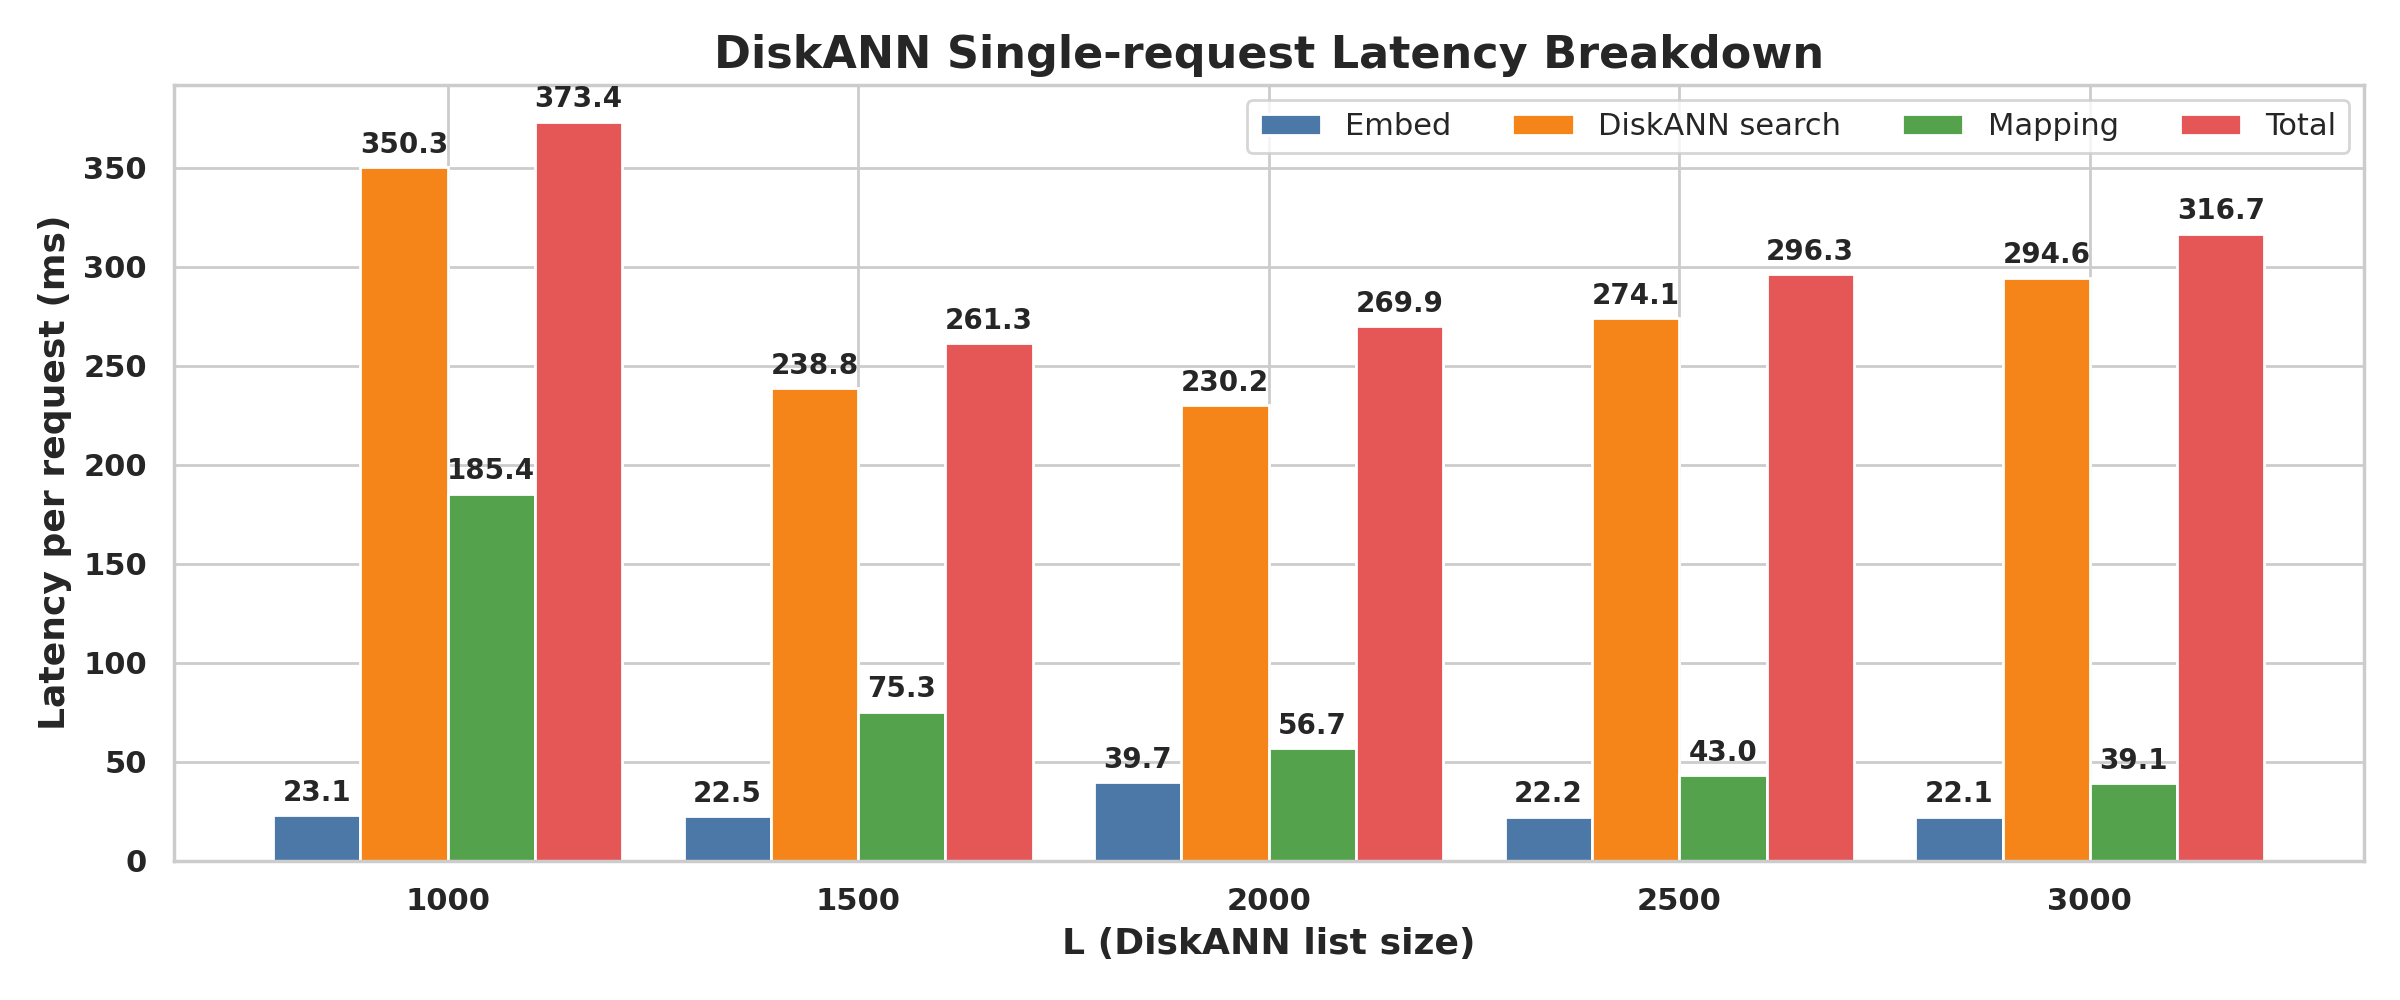
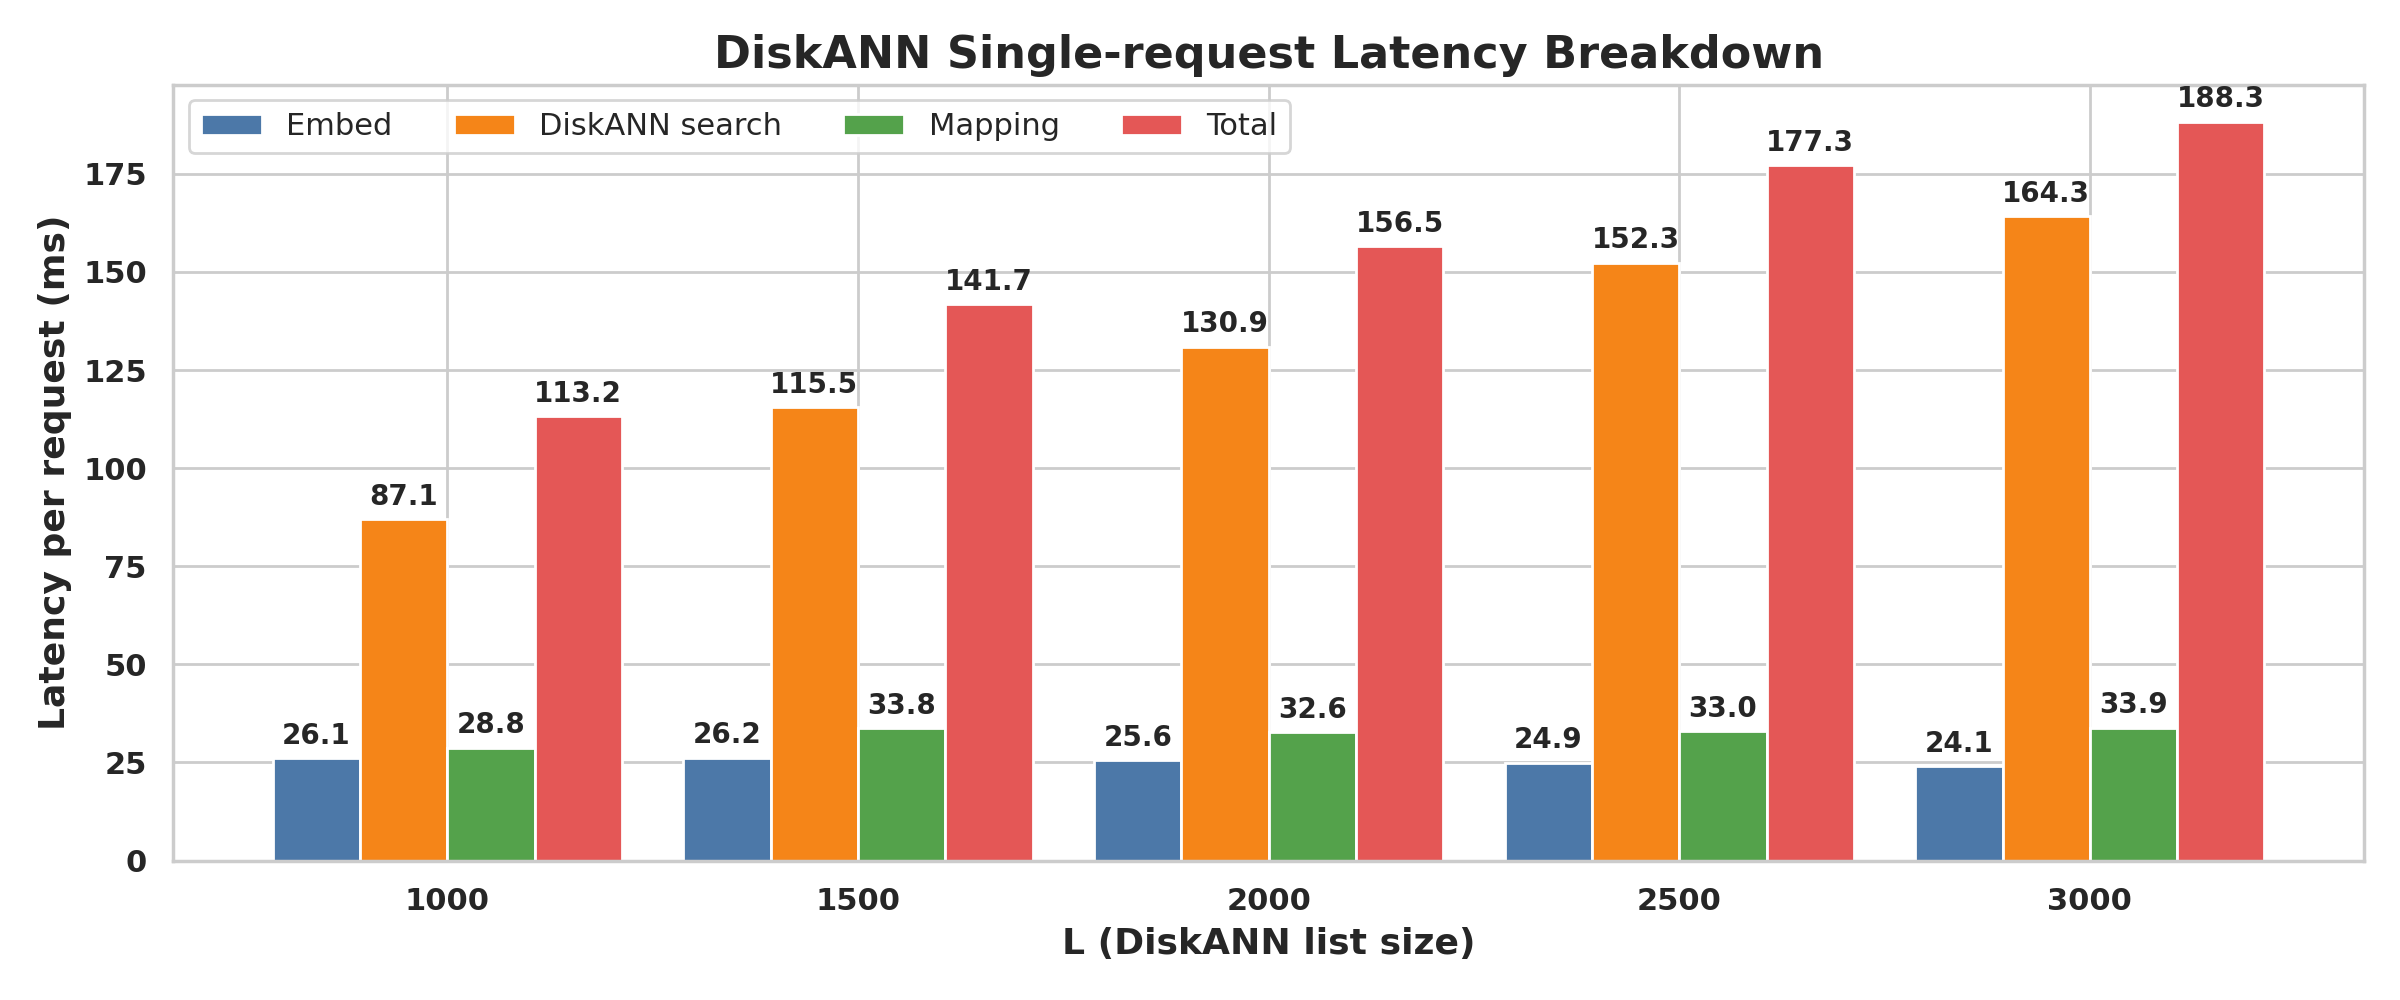
more plots updated

diff --git a/scripts/plot_diskann_single_request_latency.py b/scripts/plot_diskann_single_request_latency.py
@@ -21,11 +21,11 @@ REPO_ROOT = os.path.abspath(os.path.join(os.path.dirname(__file__), ".."))
 PLOT_PATH = os.path.join(REPO_ROOT, "docs", "plots", "diskann_single_request_latency_vs_L.png")
 
 SINGLE_REQUEST_LATENCY: List[dict] = [
-    {"L": 1000, "embed_ms": 23.05, "search_ms": 350.32, "map_ms": 185.37, "total_ms": 373.38},
-    {"L": 1500, "embed_ms": 22.50, "search_ms": 238.81, "map_ms": 75.26, "total_ms": 261.32},
-    {"L": 2000, "embed_ms": 39.74, "search_ms": 230.19, "map_ms": 56.74, "total_ms": 269.93},
-    {"L": 2500, "embed_ms": 22.21, "search_ms": 274.06, "map_ms": 43.02, "total_ms": 296.27},
-    {"L": 3000, "embed_ms": 22.15, "search_ms": 294.56, "map_ms": 39.07, "total_ms": 316.71},
+    {"L": 1000, "embed_ms": 26.10, "search_ms": 87.08, "map_ms": 28.77, "total_ms": 113.18},
+    {"L": 1500, "embed_ms": 26.24, "search_ms": 115.50, "map_ms": 33.79, "total_ms": 141.74},
+    {"L": 2000, "embed_ms": 25.60, "search_ms": 130.94, "map_ms": 32.63, "total_ms": 156.54},
+    {"L": 2500, "embed_ms": 24.92, "search_ms": 152.34, "map_ms": 32.95, "total_ms": 177.26},
+    {"L": 3000, "embed_ms": 24.05, "search_ms": 164.28, "map_ms": 33.85, "total_ms": 188.33},
 ]
 
 

diff --git a/scripts/plot_diskann_single_request_qps.py b/scripts/plot_diskann_single_request_qps.py
@@ -27,11 +27,11 @@ OUTPUT_PATH = os.path.join(REPO_ROOT, "docs", "plots", "diskann_single_request_q
 
 # Measurements captured via `REQUEST_MODE=single COUNT=20` sweep.
 SINGLE_REQUEST_RESULTS: List[dict] = [
-    {"L": 1000, "QPS": 2.50},
-    {"L": 1500, "QPS": 2.86},
-    {"L": 2000, "QPS": 2.86},
-    {"L": 2500, "QPS": 2.86},
-    {"L": 3000, "QPS": 2.50},
+    {"L": 1000, "QPS": 2.99},
+    {"L": 1500, "QPS": 3.39},
+    {"L": 2000, "QPS": 3.12},
+    {"L": 2500, "QPS": 3.12},
+    {"L": 3000, "QPS": 2.70},
 ]
 
 

diff --git a/docs/index.md b/docs/index.md
@@ -152,11 +152,6 @@ During search, **DS Serve** initially oversamples a pool of candidates, and then
   <img src="{{ 'plots/diskann_qps_vs_L.png' | relative_url }}" style="width: 48%; margin: 5px;" />
   <img src="{{ 'plots/diskann_index_only_qps_vs_L.png' | relative_url }}" style="width: 48%; margin: 5px;" />
 </p>
-<p align="left"><i>Figure 5 (single-request): DiskANN throughput when issuing individual queries sequentially (COUNT=20, no batching). Highlights the latency-limited regime seen by interactive clients.</i></p>
-<p align="center">
-  <img src="{{ 'plots/diskann_single_request_qps_vs_L.png' | relative_url }}" style="width: 90%; margin: 5px;" />
-</p>
-
 <p align="left"><i>Figure 6a: TriviaQA accuracy (Recall → F1 → EM). DiskANN outperforms IVFPQ across all metrics when displayed individually per task.</i></p>
 <p align="center">
   <img src="{{ 'accuracy_ivfpq_vs_diskann_triviaqa.png' | relative_url }}" style="width: 90%; margin: 5px;" />
@@ -167,10 +162,11 @@ During search, **DS Serve** initially oversamples a pool of candidates, and then
   <img src="{{ 'accuracy_ivfpq_vs_diskann_naturalqs.png' | relative_url }}" style="width: 90%; margin: 5px;" />
 </p>
 
-<p align="left"><i>Figure 7: DiskANN single-request latency breakdown (COUNT=20). Shows per-query cost split across embedding, DiskANN search, mapping, and total latency for different L settings.</i></p>
+<p align="left"><i>Figure 7: DiskANN single-request latency breakdown (W=8, threads=64). Shows per-query cost split different processes. In particular, search time is the latency for searching just on the index; mapping means to fetch actual passage content based on the returned passage ids; and total is the backend search latency as a whole.</i></p>
 <p align="center">
   <img src="{{ 'plots/diskann_single_request_latency_vs_L.png' | relative_url }}" style="width: 90%; margin: 5px;" />
 </p>
+<p class="small-note"><b>Note:</b> The UI latency pill measures end-to-end wall-clock time (request setup, network travel, JSON encode/decode, rendering). Our plot uses the server-reported <code>timings_ms.total</code>, which only covers embedding + search + post-processing. Expect UI numbers to run higher.</p>
 
 ---
 <br/>
